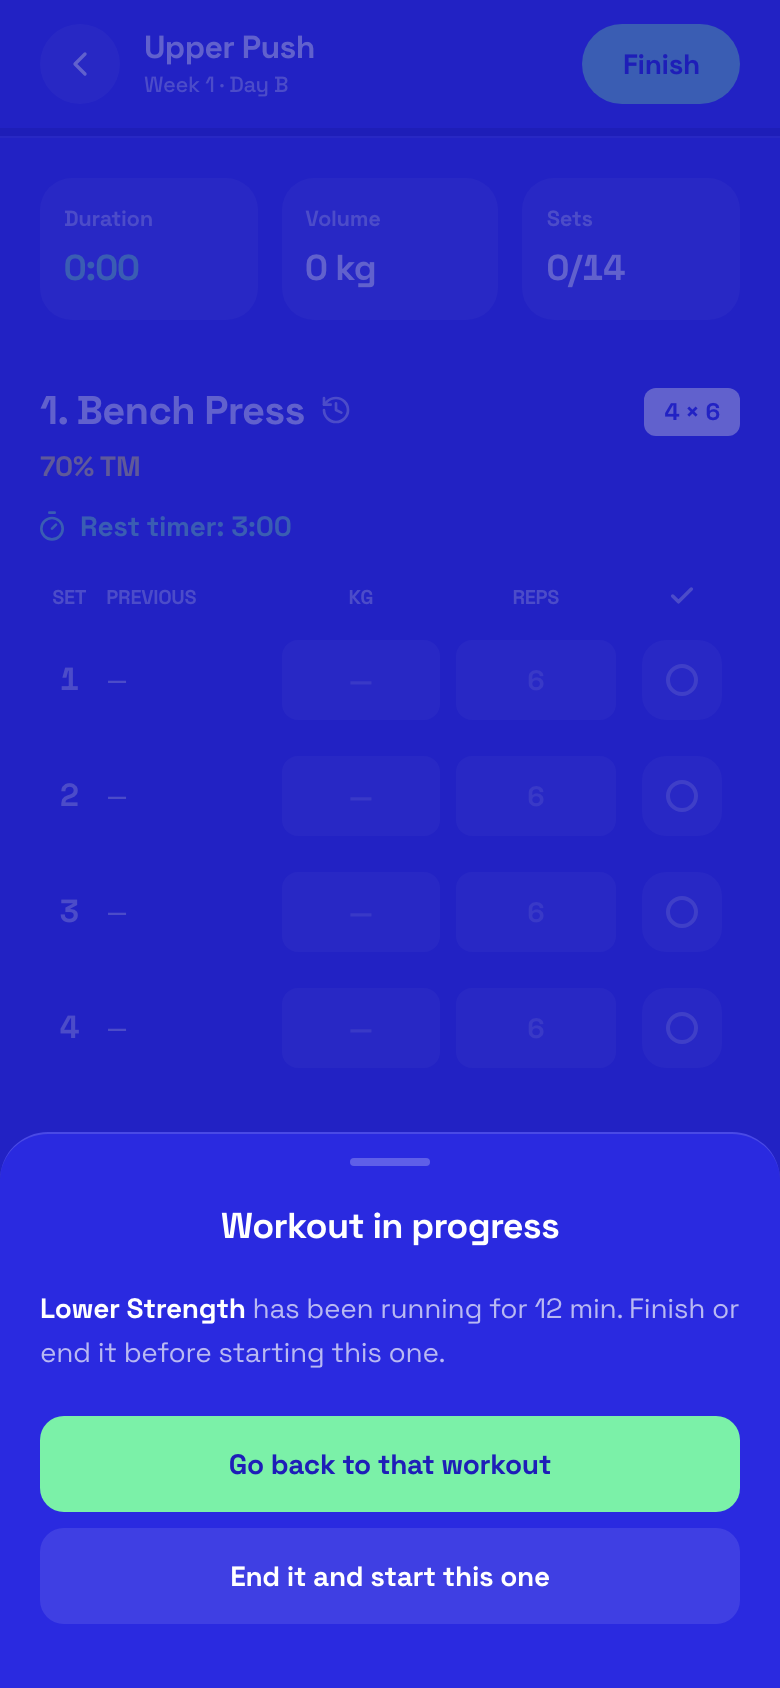
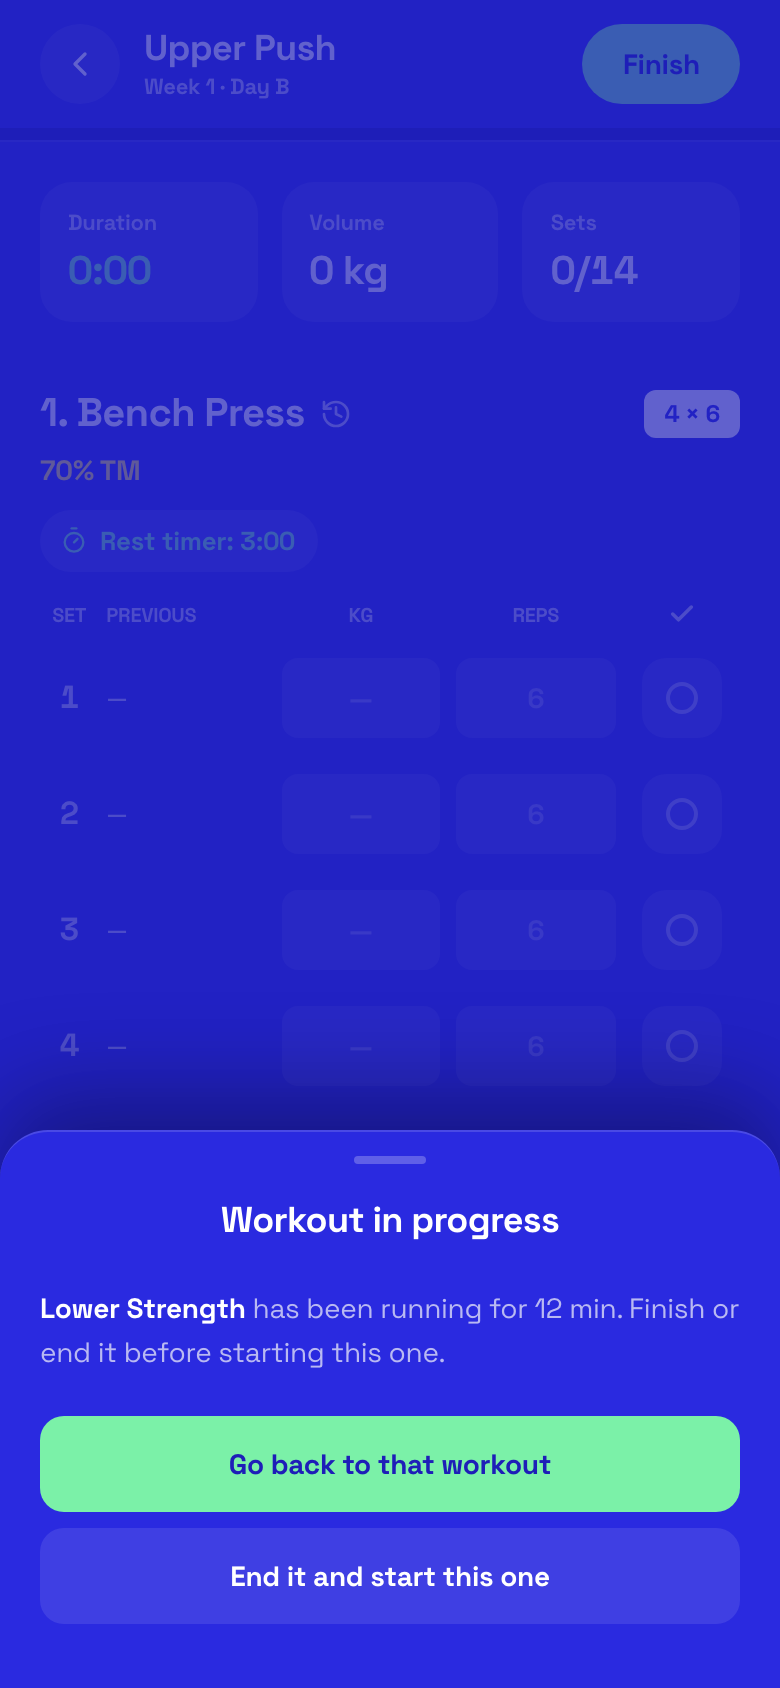
V6: rest bar + pill — critic pass with entrance-sequence artifacts
Rounds 1-3 failed only on the spring entrance/exit criterion because the shot rig
had no mid-animation frames. Added entrance/exit sequence captures to the rig;
fresh critic verified all four V6 bullets (stills + probes).

diff --git a/tests/shots.spec.ts b/tests/shots.spec.ts
@@ -93,6 +93,42 @@ test.describe('shots', () => {
     await page.screenshot({ path: shot('v6b-pill') });
   });
 
+  // Entrance sequences: a mid-spring frame plus the settled frame, so critics can
+  // verify the offscreen→rest motion from stills (motion is JS-driven; the mid frame
+  // catches the element in flight below its rest position).
+  test('V6d rest bar entrance sequence', async ({ page }) => {
+    await seedStorage(page, {});
+    await page.goto('/workout/w1-d1');
+    await settle(page);
+    await page.getByRole('button', { name: 'Mark set complete' }).first().click();
+    await page.waitForTimeout(70);
+    await page.screenshot({ path: shot('v6d-rest-bar-entrance-mid') });
+    await settle(page, 700);
+    await page.screenshot({ path: shot('v6d-rest-bar-entrance-settled') });
+  });
+
+  test('V6e pill entrance sequence', async ({ page }) => {
+    await seedStorage(page, {
+      session: { dayId: 'w1-d1', startedAt: Date.now() - 5 * 60_000 },
+    });
+    await page.goto('/');
+    await page.waitForTimeout(120);
+    await page.screenshot({ path: shot('v6e-pill-entrance-mid') });
+    await settle(page, 800);
+    await page.screenshot({ path: shot('v6e-pill-entrance-settled') });
+  });
+
+  test('V6f rest bar exit sequence', async ({ page }) => {
+    await seedStorage(page, {});
+    await page.goto('/workout/w1-d1');
+    await settle(page);
+    await page.getByRole('button', { name: 'Mark set complete' }).first().click();
+    await settle(page, 700);
+    await page.getByRole('button', { name: 'Skip rest' }).click();
+    await page.waitForTimeout(80);
+    await page.screenshot({ path: shot('v6f-rest-bar-exit-mid') });
+  });
+
   test('V6c conflict sheet', async ({ page }) => {
     await seedStorage(page, {
       session: { dayId: 'w1-d1', startedAt: Date.now() - 12 * 60_000 },
